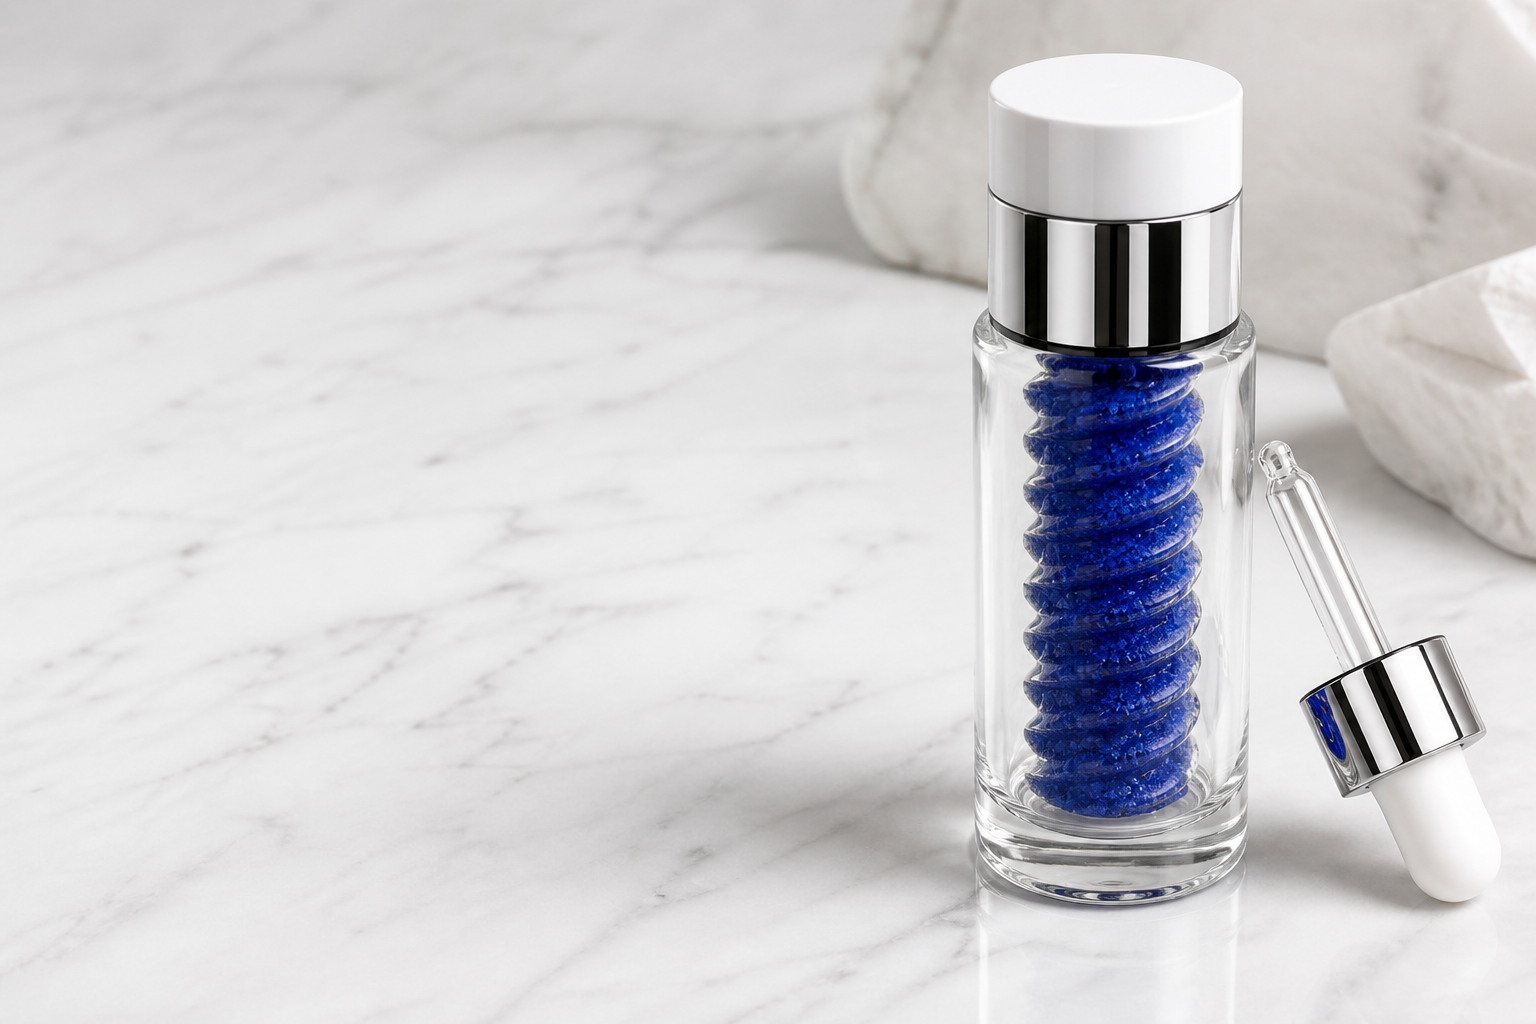
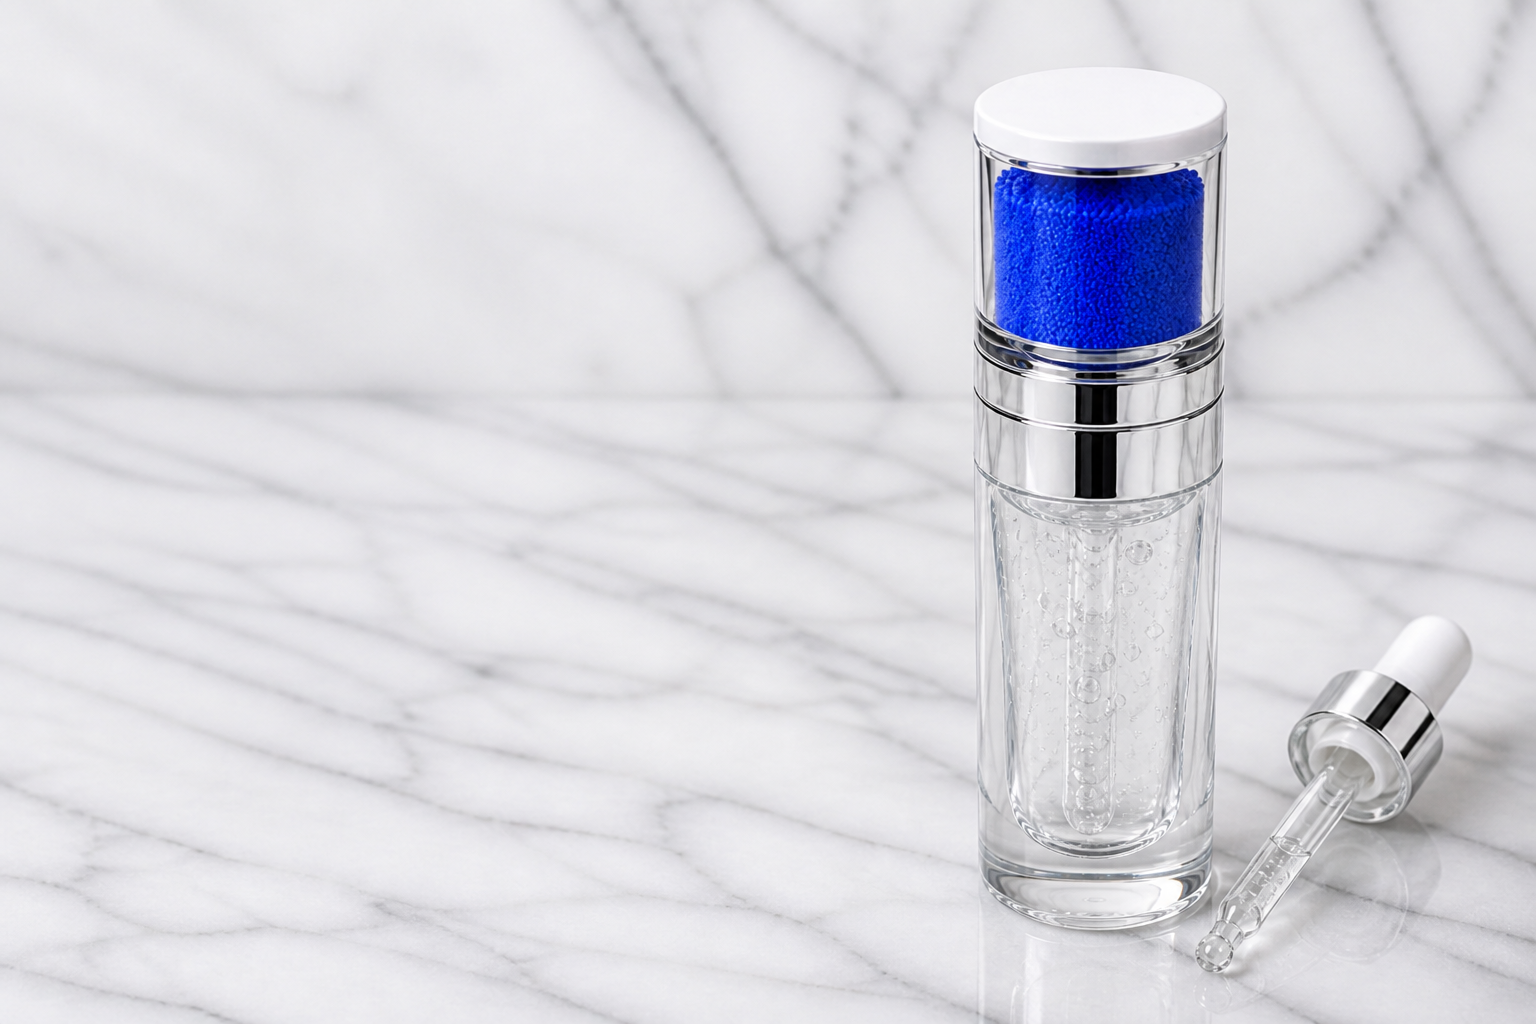
Replace competitor stock photos with WellPept product shots
Swap Curology/Erbology placeholders for dry peptide vials, ready
cream/mist/oil, twist-cap hero, and twist-cap mixing action with
consistent cobalt fine-salt powder.

diff --git a/src/data/skincare.js b/src/data/skincare.js
@@ -25,7 +25,7 @@ export const SKINCARE_PRODUCTS = [
     kind: "ready",
     price: 54,
     size: "50 mL",
-    image: "/skincare/cream-1.jpg",
+    image: "/skincare/cream-veil.png",
     blurb: "Quiet hydration with a soft matte finish for day-to-night wear.",
     focus: "Barrier, softness",
     texture: "Silken cream",
@@ -37,7 +37,7 @@ export const SKINCARE_PRODUCTS = [
     kind: "ready",
     price: 32,
     size: "100 mL",
-    image: "/skincare/mist-1.jpg",
+    image: "/skincare/mist-calm.png",
     blurb: "A mineral mist to reset skin between steps. Never sticky, never loud.",
     focus: "Reset, comfort",
     texture: "Fine mist",
@@ -49,7 +49,7 @@ export const SKINCARE_PRODUCTS = [
     kind: "ready",
     price: 72,
     size: "30 mL",
-    image: "/skincare/oil-1.jpg",
+    image: "/skincare/oil-signal.png",
     blurb: "A measured oil blend for glow without weight. Last step, lights low.",
     focus: "Glow, seal",
     texture: "Dry-touch oil",
@@ -82,7 +82,7 @@ export const PEPTIDES = [
     job: "Matrix support for the look of deeper lines",
     amount: "600 mg dry complex",
     price: 36,
-    image: "/skincare/serum-bottle.png",
+    image: "/skincare/peptide-vial-matrixyl.png",
     packaging: "vial",
     blurb:
       "Classic matrix-signal pair for the look of smoother static lines. Sealed dry until you mix.",
@@ -95,7 +95,7 @@ export const PEPTIDES = [
     job: "Expression zones via the Syn-Ake pathway",
     amount: "250 mg dry powder",
     price: 34,
-    image: "/skincare/serum-2.jpg",
+    image: "/skincare/peptide-vial-synake.png",
     packaging: "vial",
     blurb:
       "Snake-venom inspired peptide for expression-line zones. Works differently than SNAP-8’s Argireline-family pathway.",
@@ -108,7 +108,7 @@ export const PEPTIDES = [
     job: "Expression lines via Argireline-family octapeptide",
     amount: "200 mg dry powder",
     price: 38,
-    image: "/skincare/serum-1.jpg",
+    image: "/skincare/peptide-vial-snap8.png",
     packaging: "vial",
     blurb:
       "Fourth core. SNAP-8 for the look of softer expression lines, a longer cousin of Argireline, sealed dry until mix.",
